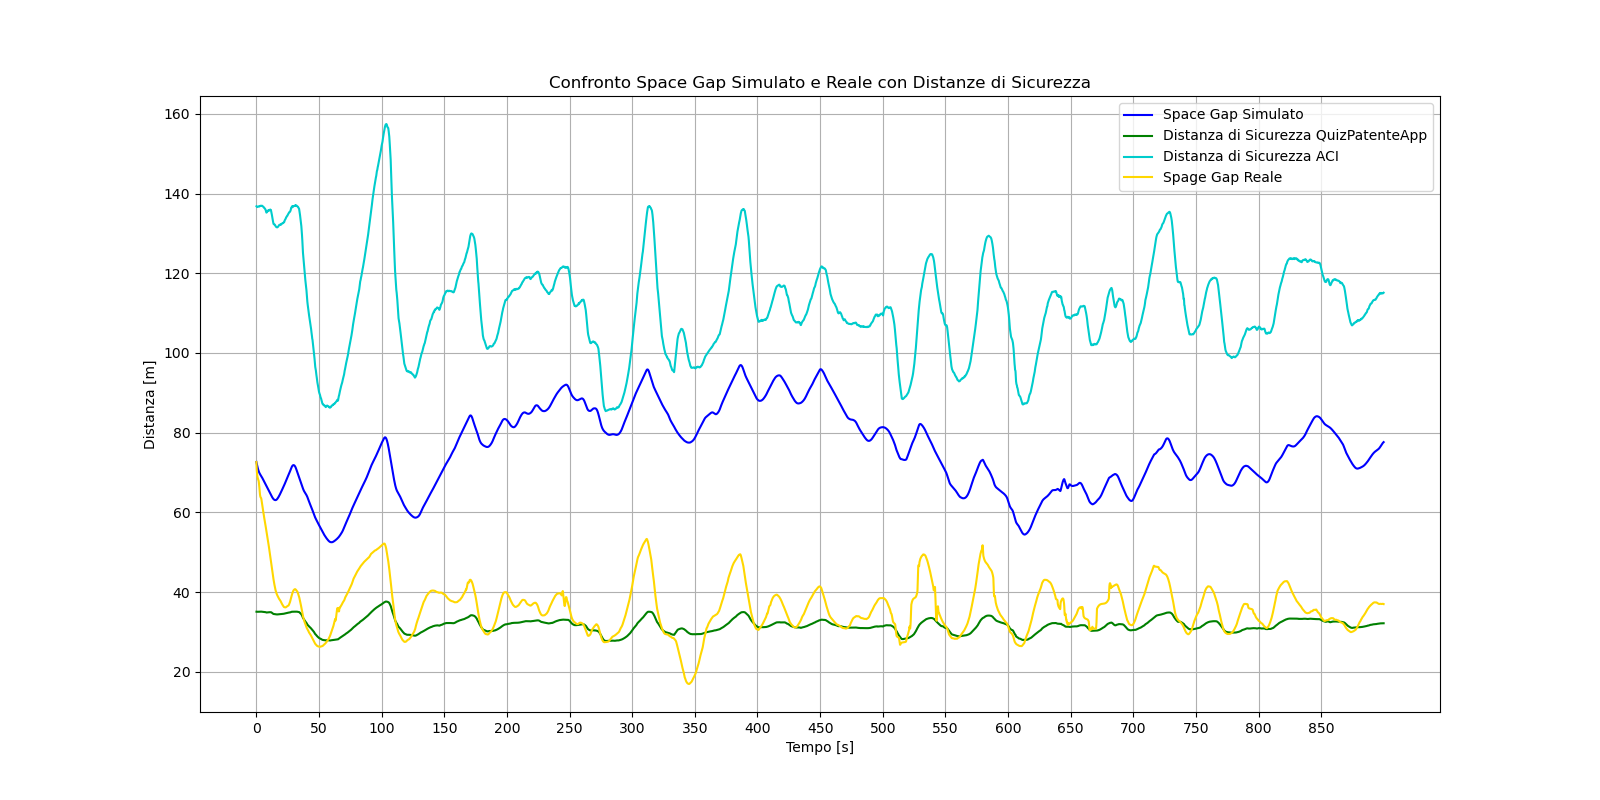
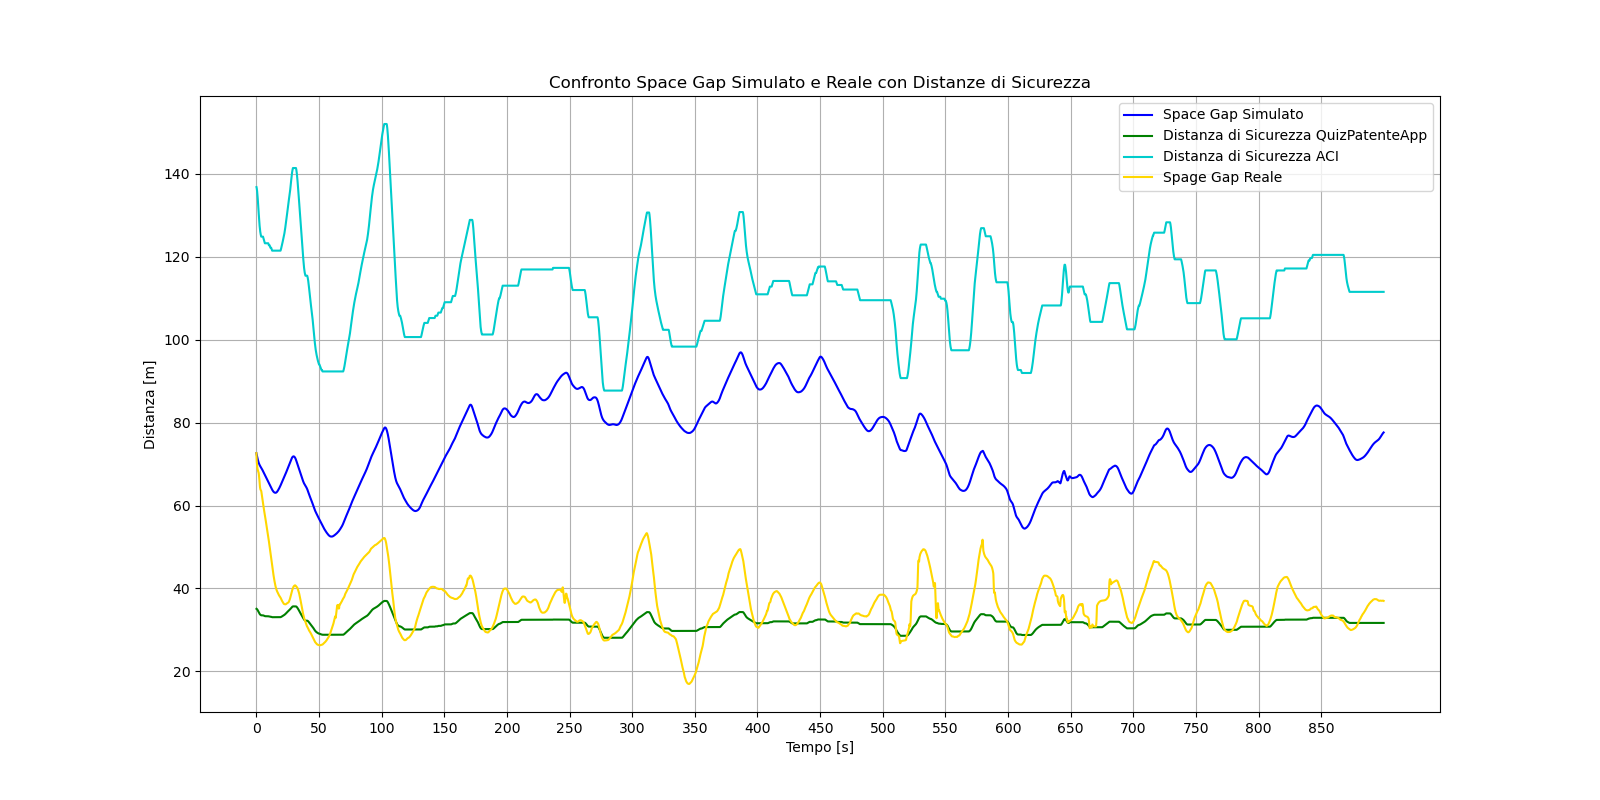
Fix: grafici simulazione

diff --git a/modello_python/generate_sim_plots.py b/modello_python/generate_sim_plots.py
@@ -7,32 +7,32 @@ from config import EGO_COLOR, LEADER_COLOR, DATA_COLOR,SECURITY_DISTANCE_ACI, SE
 def generate_sim_plots():
 
     # Carica i risultati e i dati
-    result = pd.read_csv(SIM_CSV_PATH)
-    data_df = pd.read_csv(DATA_CSV_PATH)
+    dataset_simulazione_df = pd.read_csv(SIM_CSV_PATH)
+    dataset_reale_df = pd.read_csv(DATA_CSV_PATH)
 
     data = pd.DataFrame({
-        "time": data_df["time"],
-        "ego_velocity": data_df["ego_velocity"],
-        "ego_acceleration": data_df["acc_acceleration"], # Accelerazione impartita dall'ACC (ego reale)
+        "time": dataset_reale_df["time"],
+        "ego_velocity": dataset_reale_df["ego_velocity"], # Ego velocity simulata
+        "ego_acceleration": dataset_reale_df["acc_acceleration"], # Accelerazione impartita dall'ACC (ego reale)
         "actual_ego_acceleration": np.nan, # Accelerazione effettiva (ego reale)
-        "space_gap": data_df["space_gap"],
+        "space_gap": dataset_reale_df["space_gap"],
         "security_distance_quiz": np.nan,
         "security_distance_aci": np.nan
     })
 
 
-    for i in range(1, len(data_df)):
-        time_difference = data_df["time"][i] - data_df["time"][i - 1]
-        actual_ego_acceleration = (data_df["ego_velocity"][i] - data_df["ego_velocity"][i - 1]) / time_difference
+    for i in range(1, len(dataset_reale_df)):
+        time_difference = dataset_reale_df["time"][i] - dataset_reale_df["time"][i - 1]
+        actual_ego_acceleration = (dataset_reale_df["ego_velocity"][i] - dataset_reale_df["ego_velocity"][i - 1]) / time_difference
 
         data.loc[i, "actual_ego_acceleration"] = actual_ego_acceleration
-        data.loc[i, "security_distance_quiz"] = ((data["ego_velocity"][i] * 3.6) / 10) * 3
-        data.loc[i, "security_distance_aci"] = pow(((data["ego_velocity"][i] * 3.6) / 10), 2)
+        data.loc[i, "security_distance_quiz"] = ((dataset_simulazione_df["ego_velocity"][i] * 3.6) / 10) * 3
+        data.loc[i, "security_distance_aci"] = pow(((dataset_simulazione_df["ego_velocity"][i] * 3.6) / 10), 2)
 
     # Grafico ego_velocity simulata VS leader_velocity
     plt.figure(figsize=(16, 8))
-    plt.plot(result['time'], result['ego_velocity'], label='Ego Velocity Simulata', color=EGO_COLOR)
-    plt.plot(result['time'], result['leader_velocity'], label='Leader Velocity', color=LEADER_COLOR)
+    plt.plot(dataset_simulazione_df['time'], dataset_simulazione_df['ego_velocity'], label='Ego Velocity Simulata', color=EGO_COLOR)
+    plt.plot(dataset_simulazione_df['time'], dataset_simulazione_df['leader_velocity'], label='Leader Velocity', color=LEADER_COLOR)
     plt.title('Confronto Ego Velocity Simulata e Leader Velocity')
     plt.xlabel('Tempo [s]')
     plt.ylabel('Velocità [m/s]')
@@ -43,8 +43,8 @@ def generate_sim_plots():
 
     # Grafico ego_acceleration simulata VS leader_acceleration
     plt.figure(figsize=(16, 8))
-    plt.plot(result['time'], result['leader_acceleration'], label='Leader Acceleration', color=LEADER_COLOR)
-    plt.plot(result['time'], result['ego_acceleration'], label='Ego Acceleration Simulata', color=EGO_COLOR)
+    plt.plot(dataset_simulazione_df['time'], dataset_simulazione_df['leader_acceleration'], label='Leader Acceleration', color=LEADER_COLOR)
+    plt.plot(dataset_simulazione_df['time'], dataset_simulazione_df['ego_acceleration'], label='Ego Acceleration Simulata', color=EGO_COLOR)
     plt.title('Confronto Ego Acceleration Simulata e Leader Acceleration')
     plt.xlabel('Tempo [s]')
     plt.ylabel('Accelerazione [m/s²]')
@@ -55,7 +55,7 @@ def generate_sim_plots():
 
     # Grafico space_gap
     plt.figure(figsize=(16, 8))
-    plt.plot(result['time'], result['space_gap'], label='Space Gap Simulato', color=EGO_COLOR)
+    plt.plot(dataset_simulazione_df['time'], dataset_simulazione_df['space_gap'], label='Space Gap Simulato', color=EGO_COLOR)
     plt.title('Space Gap simulato nel tempo')
     plt.xlabel('Tempo [s]')
     plt.ylabel('Distanza [m]')
@@ -66,7 +66,7 @@ def generate_sim_plots():
 
     # Grafico space_gap VS space_gap_data
     plt.figure(figsize=(16, 8))
-    plt.plot(result['time'], result['space_gap'], label='Space Gap Simulato', color=EGO_COLOR)
+    plt.plot(dataset_simulazione_df['time'], dataset_simulazione_df['space_gap'], label='Space Gap Simulato', color=EGO_COLOR)
     plt.plot(data['time'], data['space_gap'], label='Spage Gap Reale', color=DATA_COLOR)
     plt.title('Confronto Space Gap simulato e reale')
     plt.xlabel('Tempo [s]')
@@ -78,7 +78,7 @@ def generate_sim_plots():
 
     # Grafico space_gap VS security_distance
     plt.figure(figsize=(16, 8))
-    plt.plot(result['time'], result['space_gap'], label='Space Gap Simulato', color=EGO_COLOR)
+    plt.plot(dataset_simulazione_df['time'], dataset_simulazione_df['space_gap'], label='Space Gap Simulato', color=EGO_COLOR)
     plt.plot(data['time'], data['security_distance_quiz'], label='Distanza di Sicurezza QuizPatenteApp', color=SECURITY_DISTANCE_QUIZ)
     plt.plot(data['time'], data['security_distance_aci'], label='Distanza di Sicurezza ACI', color=SECURITY_DISTANCE_ACI)
     plt.plot(data['time'], data['space_gap'], label='Spage Gap Reale', color=DATA_COLOR)
@@ -92,7 +92,7 @@ def generate_sim_plots():
 
     # Grafico ego_velocity VS ego_velocity_data
     plt.figure(figsize=(16, 8))
-    plt.plot(result['time'], result['ego_velocity'], label='Ego Velocity Simulata', color=EGO_COLOR)
+    plt.plot(dataset_simulazione_df['time'], dataset_simulazione_df['ego_velocity'], label='Ego Velocity Simulata', color=EGO_COLOR)
     plt.plot(data['time'], data['ego_velocity'], label='Ego Velocity Reale', color=DATA_COLOR)
     plt.title('Confronto Ego Velocity Simulata e Reale')
     plt.xlabel('Tempo [s]')
@@ -104,7 +104,7 @@ def generate_sim_plots():
 
     # Grafico ego_acceleration VS ego_acceleration_impartita
     plt.figure(figsize=(16, 8))
-    plt.plot(result['time'], result['ego_acceleration'], label='Ego Acceleration Simulata', color=EGO_COLOR)
+    plt.plot(dataset_simulazione_df['time'], dataset_simulazione_df['ego_acceleration'], label='Ego Acceleration Simulata', color=EGO_COLOR)
     plt.plot(data['time'], data['ego_acceleration'], label='Ego Acceleration Reale Impartita', color=DATA_COLOR)
     plt.title('Confronto Ego Acceleration Simulata e Reale Impartita')
     plt.xlabel('Tempo [s]')
@@ -117,7 +117,7 @@ def generate_sim_plots():
     # Grafico ego_acceleration VS ego_acceleration_data_effettiva
     plt.figure(figsize=(16, 8))
     plt.plot(data['time'], data['actual_ego_acceleration'], label='Ego Acceleration Reale Effettiva', color="#800080")
-    plt.plot(result['time'], result['ego_acceleration'], label='Ego Acceleration Simulata', color=EGO_COLOR)
+    plt.plot(dataset_simulazione_df['time'], dataset_simulazione_df['ego_acceleration'], label='Ego Acceleration Simulata', color=EGO_COLOR)
     plt.title('Confronto Ego Acceleration Simulata e Reale Effettiva')
     plt.xlabel('Tempo [s]')
     plt.ylabel('Accelerazione [m/s²]')

diff --git a/modello_python/statistical_tests/acc_ego_sim_effettiva.py b/modello_python/statistical_tests/acc_ego_sim_effettiva.py
@@ -1,0 +1,25 @@
+import pandas as pd
+from modello_python.config import SIM_CSV_PATH, DATA_CSV_PATH
+from scipy.stats import pearsonr
+
+# Confronta la ego acceleration simulata con la la ego acceleration effettiva
+
+dataset_simulazione_df = pd.read_csv(SIM_CSV_PATH)
+dataset_reale_df = pd.read_csv(DATA_CSV_PATH)
+
+data = pd.DataFrame({
+    "ego_acceleration_sim": dataset_simulazione_df["ego_acceleration"],
+    "ego_velocity_reale": dataset_reale_df["ego_velocity"]
+})
+
+ego_acceleration_effettiva = [0]
+
+for i in range (1, len(data["ego_velocity_reale"])):
+    new_val = (data["ego_velocity_reale"][i] - data["ego_velocity_reale"][i-1])/(0.1)
+    ego_acceleration_effettiva.append(new_val)
+
+data["ego_acceleration_effettiva"] = ego_acceleration_effettiva
+
+# Calcola la correlazione di Pearson per le accelerazioni
+corr, _ = pearsonr(data["ego_acceleration_sim"], data["ego_acceleration_effettiva"])
+print('Correlazione di Pearson per le accelerazioni: %.3f' % corr)

diff --git a/modello_python/statistical_tests/space_gap.py b/modello_python/statistical_tests/space_gap.py
@@ -1,0 +1,25 @@
+import pandas as pd
+from modello_python.config import SIM_CSV_PATH, DATA_CSV_PATH
+from scipy.stats import pearsonr
+
+# Confronta gli space gap
+
+dataset_simulazione_df = pd.read_csv(SIM_CSV_PATH)
+dataset_reale_df = pd.read_csv(DATA_CSV_PATH)
+
+data = pd.DataFrame({
+    "time": dataset_simulazione_df["time"],
+    "ego_velocity_simulata": dataset_simulazione_df["ego_velocity"],
+    "ego_velocity_reale":dataset_reale_df["ego_velocity"],
+    "space_gap_simulato": dataset_simulazione_df["space_gap"],
+    "space_gap_reale": dataset_reale_df["space_gap"],
+})
+
+for i in range(1, len(data["time"])):
+    time_difference = data["time"][i] - data["time"][i - 1]
+
+    data.loc[i, "security_distance_quiz"] = ((data["ego_velocity_simulata"][i] * 3.6) / 10) * 3
+    data.loc[i, "security_distance_aci"] = pow(((data["ego_velocity_simulata"][i] * 3.6) / 10), 2)
+
+diff_simulato_reale = data["space_gap_simulato"] - data["space_gap_reale"]
+

diff --git a/modello_python/statistical_tests/acc_ego_sim_impartita.py b/modello_python/statistical_tests/acc_ego_sim_impartita.py
@@ -1,0 +1,17 @@
+import pandas as pd
+from modello_python.config import SIM_CSV_PATH, DATA_CSV_PATH
+from scipy.stats import pearsonr
+
+# Confronta la ego acceleration simulata con la la ego acceleration impartita
+
+dataset_simulazione_df = pd.read_csv(SIM_CSV_PATH)
+dataset_reale_df = pd.read_csv(DATA_CSV_PATH)
+
+data = pd.DataFrame({
+    "ego_acceleration_sim": dataset_simulazione_df["ego_acceleration"],
+    "ego_acceleration_impartita": dataset_reale_df["acc_acceleration"]
+})
+
+# Calcola la correlazione di Pearson per le accelerazioni
+corr, _ = pearsonr(data["ego_acceleration_sim"], data["ego_acceleration_impartita"])
+print('Correlazione di Pearson per le accelerazioni: %.3f' % corr)

diff --git a/modello_python/statistical_tests/vel_ego_sim_reale.py b/modello_python/statistical_tests/vel_ego_sim_reale.py
@@ -1,0 +1,17 @@
+import pandas as pd
+from modello_python.config import SIM_CSV_PATH, DATA_CSV_PATH
+from scipy.stats import pearsonr
+
+# Confronta la ego velocity simulata con la leader velocity
+
+dataset_simulazione_df = pd.read_csv(SIM_CSV_PATH)
+dataset_reale_df = pd.read_csv(DATA_CSV_PATH)
+
+data = pd.DataFrame({
+    "ego_velocity_simulata": dataset_simulazione_df["ego_velocity"],
+    "ego_velocity_reale": dataset_reale_df["ego_velocity"],
+})
+
+# Calcola la correlazione di Pearson per le velocità
+corr, _ = pearsonr(data["ego_velocity_simulata"], data["ego_velocity_reale"])
+print('Pearsons correlation per le velocità: %.3f' % corr)

diff --git a/modello_python/statistical_tests/acc_ego_leader.py b/modello_python/statistical_tests/acc_ego_leader.py
@@ -2,6 +2,8 @@ import pandas as pd
 from modello_python.config import SIM_CSV_PATH, ALPHA
 from scipy.stats import pearsonr
 
+# Confronta la ego acceleration simulata con la leader acceleration (filtrandola con EWMA)
+
 dataset_df = pd.read_csv(SIM_CSV_PATH)
 
 data = pd.DataFrame({

diff --git a/modello_python/statistical_tests/vel_ego_leader.py b/modello_python/statistical_tests/vel_ego_leader.py
@@ -2,7 +2,8 @@ import pandas as pd
 from modello_python.config import SIM_CSV_PATH
 from scipy.stats import pearsonr
 
-# Carica i risultati e i dati
+# Confronta la ego velocity simulata con la leader velocity
+
 dataset_df = pd.read_csv(SIM_CSV_PATH)
 
 data = pd.DataFrame({
